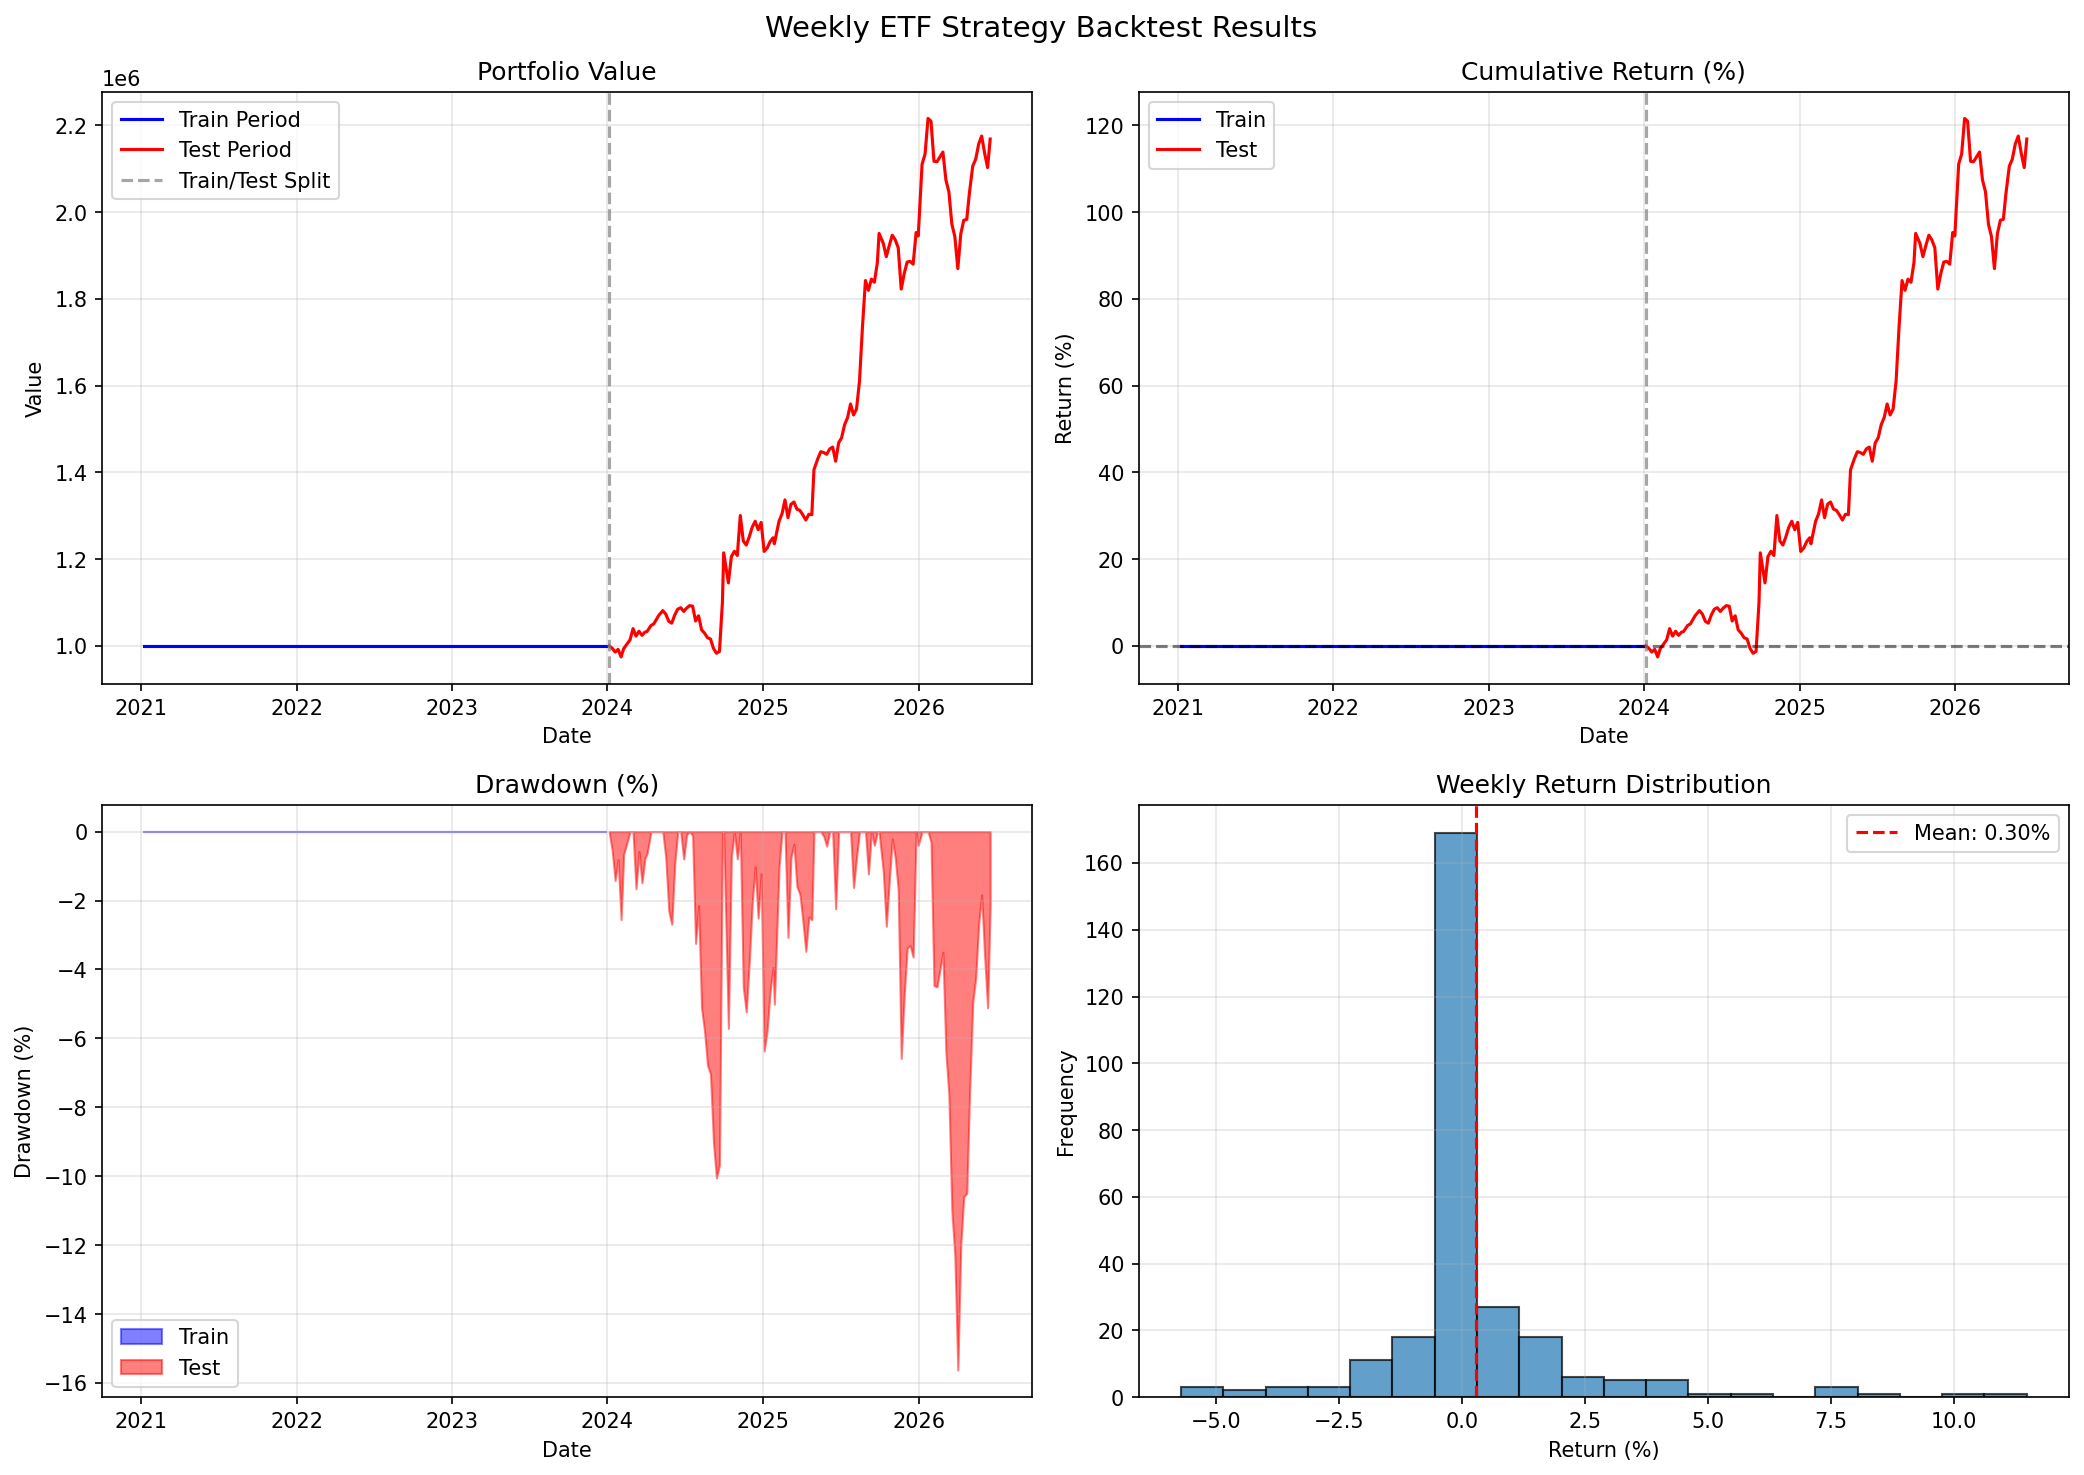
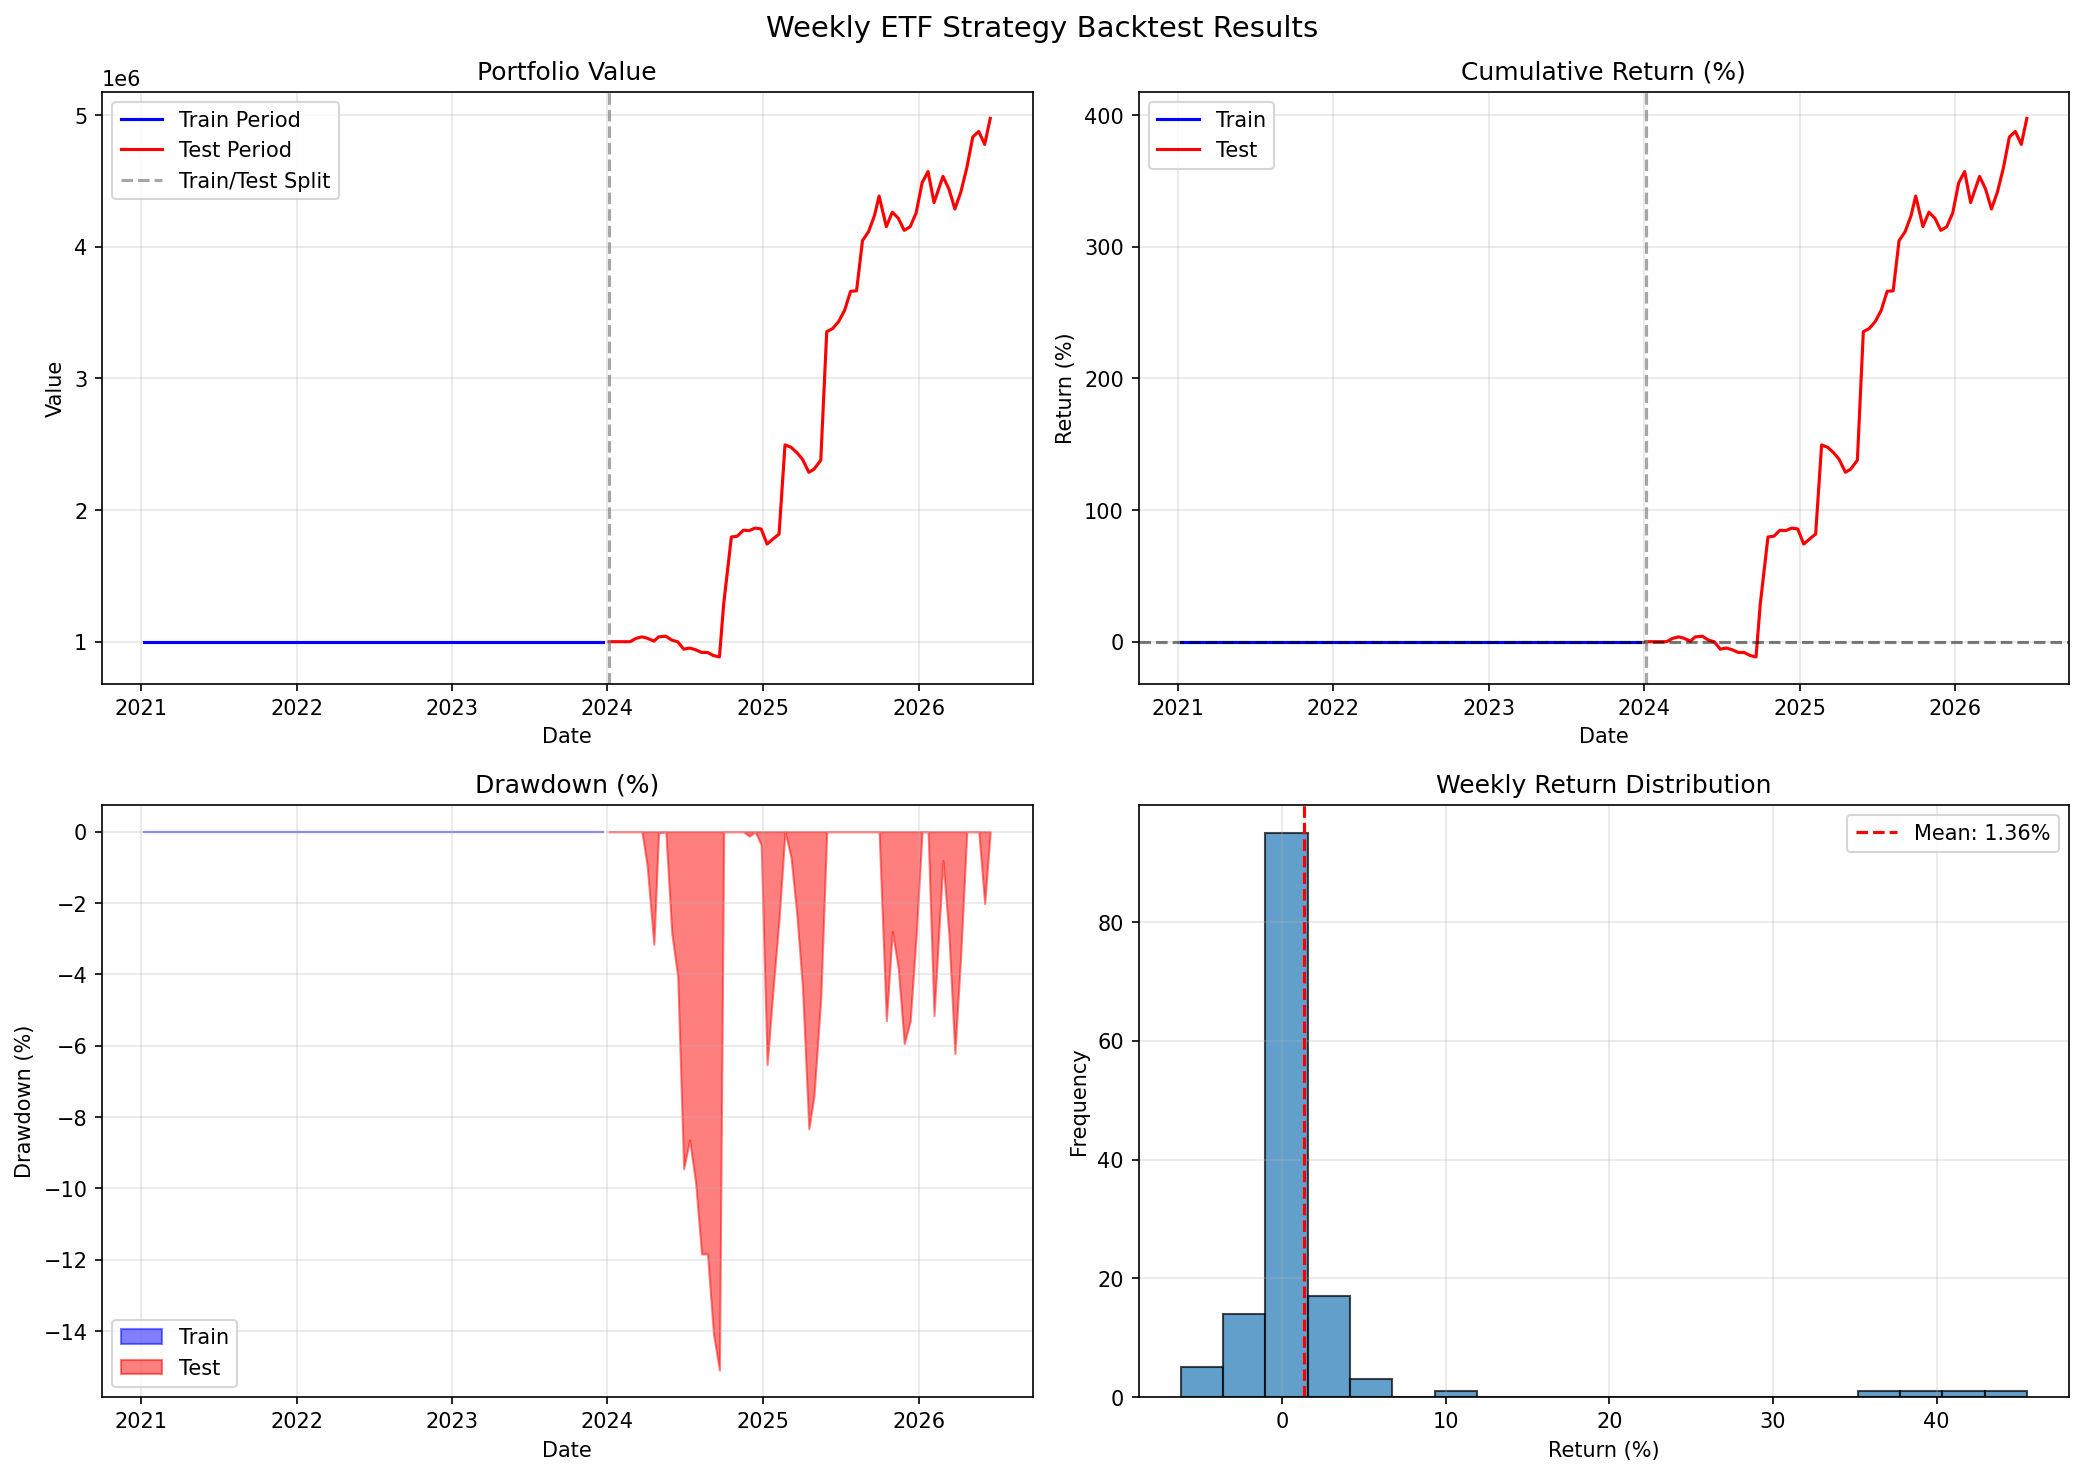
update

diff --git a/strategy.py b/strategy.py
@@ -458,47 +458,50 @@ class SimpleMomentumStrategy:
         return pd.DataFrame(results)
     
     def select_etfs(self, factor_df):
-        """选股：动量排序 + 趋势过滤 + 动量阈值（温和版）"""
+        """选股：风险调整动量（动量/波动率） + 趋势过滤 + 波动率上限"""
         if len(factor_df) == 0:
             return []
         
         df = factor_df.copy()
         
-        # 1. 动量阈值过滤：只选择动量大于阈值的ETF
-        df_positive = df[df['momentum'] > self.momentum_threshold]
+        # 计算风险调整动量（动量 / 波动率，类似夏普比率形式）
+        # 这使得不同波动率的ETF可以在同一尺度上比较
+        df['risk_adjusted_momentum'] = df['momentum'] / df['volatility'].replace(0, np.nan)
+        df['risk_adjusted_momentum'] = df['risk_adjusted_momentum'].fillna(0)
         
-        # 2. 趋势过滤：只选择趋势向上的ETF（价格高于均线）
-        df_trend = df_positive[df_positive['trend'] > 0]
+        # 1. 趋势过滤：只选择趋势向上的ETF（价格高于均线）
+        df = df[df['trend'] > 0]
         
-        # 3. 波动率过滤：避免波动率过高的ETF
-        df_final = df_trend[df_trend['volatility'] <= self.max_volatility]
+        # 2. 波动率过滤：避免波动率过高的ETF
+        df = df[df['volatility'] <= self.max_volatility]
         
-        # 如果严格过滤后ETF数量足够，直接选择
-        if len(df_final) >= self.n_portfolio:
-            df_final = df_final.sort_values('momentum', ascending=False)
-            selected = []
-            for _, row in df_final.head(self.n_portfolio).iterrows():
-                selected.append(row.to_dict())
-            return selected
+        # 3. 动量阈值过滤：只选择动量大于阈值的ETF
+        df = df[df['momentum'] > self.momentum_threshold]
         
-        # 如果不足，放宽波动率限制（保留趋势和动量过滤）
-        if len(df_trend) >= self.n_portfolio:
-            df_trend = df_trend.sort_values('momentum', ascending=False)
-            selected = []
-            for _, row in df_trend.head(self.n_portfolio).iterrows():
-                selected.append(row.to_dict())
-            return selected
+        # 如果过滤后ETF不足，放宽条件
+        if len(df) < self.n_portfolio:
+            # 放宽波动率限制
+            df_filtered = factor_df[factor_df['trend'] > 0].copy()
+            df_filtered['risk_adjusted_momentum'] = df_filtered['momentum'] / df_filtered['volatility'].replace(0, np.nan)
+            df_filtered['risk_adjusted_momentum'] = df_filtered['risk_adjusted_momentum'].fillna(0)
+            df_filtered = df_filtered[df_filtered['momentum'] > self.momentum_threshold]
+            if len(df_filtered) >= self.n_portfolio:
+                df = df_filtered
         
-        # 如果仍然不足，放宽趋势限制（只保留动量过滤）
-        if len(df_positive) >= self.n_portfolio:
-            df_positive = df_positive.sort_values('momentum', ascending=False)
-            selected = []
-            for _, row in df_positive.head(self.n_portfolio).iterrows():
-                selected.append(row.to_dict())
-            return selected
+        if len(df) < self.n_portfolio:
+            # 放宽动量条件
+            df_filtered = factor_df[factor_df['trend'] > 0].copy()
+            df_filtered['risk_adjusted_momentum'] = df_filtered['momentum'] / df_filtered['volatility'].replace(0, np.nan)
+            df_filtered['risk_adjusted_momentum'] = df_filtered['risk_adjusted_momentum'].fillna(0)
+            if len(df_filtered) >= self.n_portfolio:
+                df = df_filtered
         
-        # 如果动量正值的ETF不足，选择动量最高的几个（即使动量为负）
-        df = df.sort_values('momentum', ascending=False)
+        if len(df) == 0:
+            return []
+        
+        # 按风险调整动量排序（而非原始动量）
+        df = df.sort_values('risk_adjusted_momentum', ascending=False)
+        
         selected = []
         for _, row in df.head(self.n_portfolio).iterrows():
             selected.append(row.to_dict())

diff --git a/backtest.py b/backtest.py
@@ -21,7 +21,8 @@ class Backtest:
         self.trades_history = []
         self.train_end_date = None
         
-    def run(self, price_data_dict, strategy, start_date, end_date):
+    def run(self, price_data_dict, strategy, start_date, end_date, rebalance_freq='biweekly',
+            market_timing=None, market_index_code='000001'):
         """
         运行回测
         
@@ -30,11 +31,25 @@ class Backtest:
             strategy: 策略实例（MultiFactorETFStrategy或SimpleMomentumStrategy）
             start_date: 开始日期
             end_date: 结束日期
+            rebalance_freq: 'weekly' 或 'biweekly'（默认双周）
+            market_timing: 市场择时实例（可选，用于根据市场状态调整仓位）
+            market_index_code: 市场指数代码（默认上证指数000001）
         
         Returns:
             dict: 回测指标（包含训练期和测试期）
         """
         self.train_end_date = strategy.train_end_date
+        
+        # 获取市场指数数据（用于市场择时）
+        self.market_index_code = market_index_code
+        if market_timing is not None:
+            from data import get_etf_hist
+            try:
+                self.market_data = get_etf_hist(market_index_code, start_date.strftime('%Y-%m-%d'), 
+                                                end_date.strftime('%Y-%m-%d'))
+            except:
+                self.market_data = None
+                market_timing = None  # 无法获取市场数据时禁用择时
         
         # 生成调仓日期
         all_dates = set()
@@ -42,8 +57,8 @@ class Backtest:
             all_dates.update(df.index.tolist())
         trading_dates = sorted([d for d in all_dates if pd.to_datetime(d) >= start_date])
         
-        # 按周分组
-        weekly_dates = self._get_weekly_dates(trading_dates)
+        # 按周分组（根据调仓频率）
+        weekly_dates = self._get_weekly_dates(trading_dates, freq=rebalance_freq)
         
         capital = self.initial_capital
         current_positions = {}
@@ -137,7 +152,17 @@ class Backtest:
                     if len(weights) > 0:
                         # 计算新持仓
                         new_positions = {}
-                        target_capital = portfolio_value * 0.95
+                        
+                        # 根据市场择时决定仓位
+                        position_ratio = 0.95  # 默认95%仓位
+                        if market_timing is not None and self.market_data is not None:
+                            # 获取调仓日之前的市场数据
+                            market_hist = self.market_data[self.market_data.index < rebalance_date]
+                            if len(market_hist) > 0:
+                                market_prices = market_hist['close']
+                                position_ratio = market_timing.get_position_ratio(market_prices)
+                        
+                        target_capital = portfolio_value * position_ratio
                         
                         for sec_code, weight in weights.items():
                             if sec_code in current_prices:
@@ -217,8 +242,14 @@ class Backtest:
         
         return metrics
     
-    def _get_weekly_dates(self, dates):
-        """将日期按周分组"""
+    def _get_weekly_dates(self, dates, freq='biweekly'):
+        """
+        将日期按周分组
+        
+        Parameters:
+            dates: 日期列表
+            freq: 'weekly' 或 'biweekly'（双周）
+        """
         if len(dates) == 0:
             return []
         
@@ -239,6 +270,10 @@ class Backtest:
         
         if len(current_week) > 0:
             weeks.append(current_week)
+        
+        # 如果是双周调仓，只保留奇数周（或偶数周）
+        if freq == 'biweekly':
+            weeks = [w for i, w in enumerate(weeks) if i % 2 == 0]
         
         return weeks
     

diff --git a/stock.py b/stock.py
@@ -22,7 +22,6 @@ ETF_POOL = {
         '510500',  # 中证500ETF
         '512100',  # 中证1000ETF
         '159915',  # 创业板ETF
-        '510050',  # 上证50ETF
         '588000',  # 科创50ETF
     ],
     # 行业ETF
@@ -32,8 +31,9 @@ ETF_POOL = {
         '512010',  # 医药ETF
         '512760',  # 半导体ETF
         '515790',  # 光伏ETF
-        '515030',  # 新能源车ETF
         '512400',  # 有色金属ETF
+        '512800',  # 银行ETF
+        '515050',  # 通信ETF
     ],
     # 跨境ETF
     '跨境': [
@@ -52,6 +52,7 @@ BACKTEST_CONFIG = {
     'end_date': '2026-06-18',
     'initial_capital': 1000000,
     'rebalance_cost': 0.0005,  # 0.05%手续费
+    'rebalance_freq': 'biweekly',  # 双周调仓
 }
 
 # 简单动量策略配置（优化版）
@@ -79,7 +80,8 @@ MULTIFACTOR_STRATEGY_CONFIG = {
 
 # ========== 主程序 ==========
 
-def run_backtest(etf_codes=None, strategy_type='multifactor', strategy_config=None, backtest_config=None):
+def run_backtest(etf_codes=None, strategy_type='multifactor', strategy_config=None, 
+                 backtest_config=None, use_market_timing=False, market_timing_config=None):
     """
     运行回测
     
@@ -88,6 +90,8 @@ def run_backtest(etf_codes=None, strategy_type='multifactor', strategy_config=No
         strategy_type: 策略类型，'simple'（简单动量）或 'multifactor'（多因子）
         strategy_config: 策略参数（可选）
         backtest_config: 回测参数（可选）
+        use_market_timing: 是否使用市场择时（根据上证指数调整仓位）
+        market_timing_config: 市场择时参数（可选）
     
     Returns:
         dict: 回测结果
@@ -112,6 +116,15 @@ def run_backtest(etf_codes=None, strategy_type='multifactor', strategy_config=No
             strategy_config = MULTIFACTOR_STRATEGY_CONFIG.copy()
         strategy = MultiFactorETFStrategy(**strategy_config)
         strategy_name = "多因子策略"
+    
+    # 市场择时
+    market_timing = None
+    if use_market_timing:
+        from strategy import MarketTiming
+        if market_timing_config is None:
+            market_timing_config = {}
+        market_timing = MarketTiming(**market_timing_config)
+        strategy_name += "（市场择时）"
     
     print("="*50)
     print(f"周级别ETF量化策略 - {strategy_name}")
@@ -148,7 +161,9 @@ def run_backtest(etf_codes=None, strategy_type='multifactor', strategy_config=No
         price_data_dict,
         strategy,
         pd.to_datetime(backtest_config['start_date']),
-        pd.to_datetime(backtest_config['end_date'])
+        pd.to_datetime(backtest_config['end_date']),
+        rebalance_freq=backtest_config.get('rebalance_freq', 'biweekly'),
+        market_timing=market_timing
     )
     
     # 计算基准收益